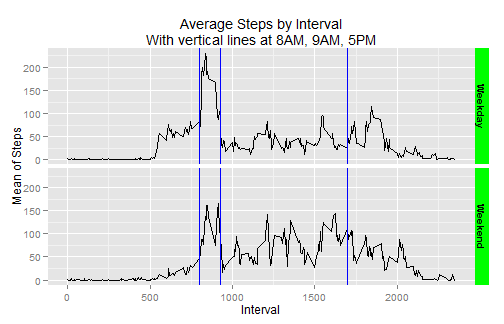
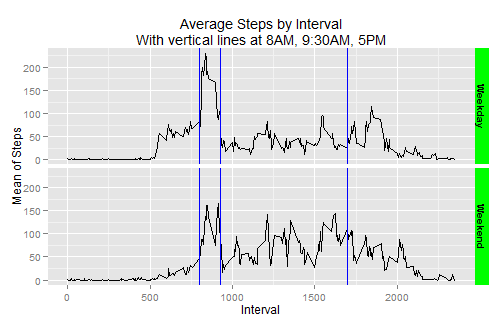
Updated heading on plot to correctly identify vertical lines.

Changed region(s): [[0.2679, 0.0926, 0.7738, 0.1543]]

diff --git a/PA1_template.html b/PA1_template.html
@@ -321,11 +321,11 @@ ggplot(activitySumDate, aes(x=date,y=totalSteps )) +
 ggplot(activitySumInterval, aes(x=interval,y=meanSteps)) + 
       geom_line() +
       geom_vline(x=c(800,930,1700), colour=&quot;blue&quot;) +
-      ggtitle(&quot;Average Steps by Interval\nWith vertical lines at 8AM, 9AM, 5PM&quot;) +
+      ggtitle(&quot;Average Steps by Interval\nWith vertical lines at 8AM, 9:30AM, 5PM&quot;) +
       ylab(&quot;Mean of Steps&quot;) + xlab(&quot;Interval&quot;)
 </code></pre>
 
[2 lines of base64/hex data omitted]
 
 <h2>Imputing missing values</h2>
 
@@ -456,13 +456,13 @@ the 8-9am time followed by generally more activity through out the day. </p>
       geom_line() + 
       facet_grid(day ~ .) +
       geom_vline(x=c(800,930,1700), colour=&quot;blue&quot;) + 
-      ggtitle(&quot;Average Steps by Interval\nWith vertical lines at 8AM, 9AM, 5PM&quot;) +
+      ggtitle(&quot;Average Steps by Interval\nWith vertical lines at 8AM, 9:30AM, 5PM&quot;) +
       ylab(&quot;Mean of Steps&quot;) + xlab(&quot;Interval&quot;) +
       theme(strip.text = element_text(face=&quot;bold&quot;),
             strip.background = element_rect(fill=&quot;green&quot;))
 </code></pre>
 
[2 lines of base64/hex data omitted]
 
 </body>
 

diff --git a/PA1_template.md b/PA1_template.md
@@ -137,7 +137,7 @@ library(ggplot2)
 ggplot(activitySumInterval, aes(x=interval,y=meanSteps)) + 
       geom_line() +
       geom_vline(x=c(800,930,1700), colour="blue") +
-      ggtitle("Average Steps by Interval\nWith vertical lines at 8AM, 9AM, 5PM") +
+      ggtitle("Average Steps by Interval\nWith vertical lines at 8AM, 9:30AM, 5PM") +
       ylab("Mean of Steps") + xlab("Interval")
 ```
 
@@ -277,7 +277,7 @@ ggplot(activitySumIntervalDay, aes(x=interval,y=meanSteps)) +
       geom_line() + 
       facet_grid(day ~ .) +
       geom_vline(x=c(800,930,1700), colour="blue") + 
-      ggtitle("Average Steps by Interval\nWith vertical lines at 8AM, 9AM, 5PM") +
+      ggtitle("Average Steps by Interval\nWith vertical lines at 8AM, 9:30AM, 5PM") +
       ylab("Mean of Steps") + xlab("Interval") +
       theme(strip.text = element_text(face="bold"),
             strip.background = element_rect(fill="green"))
